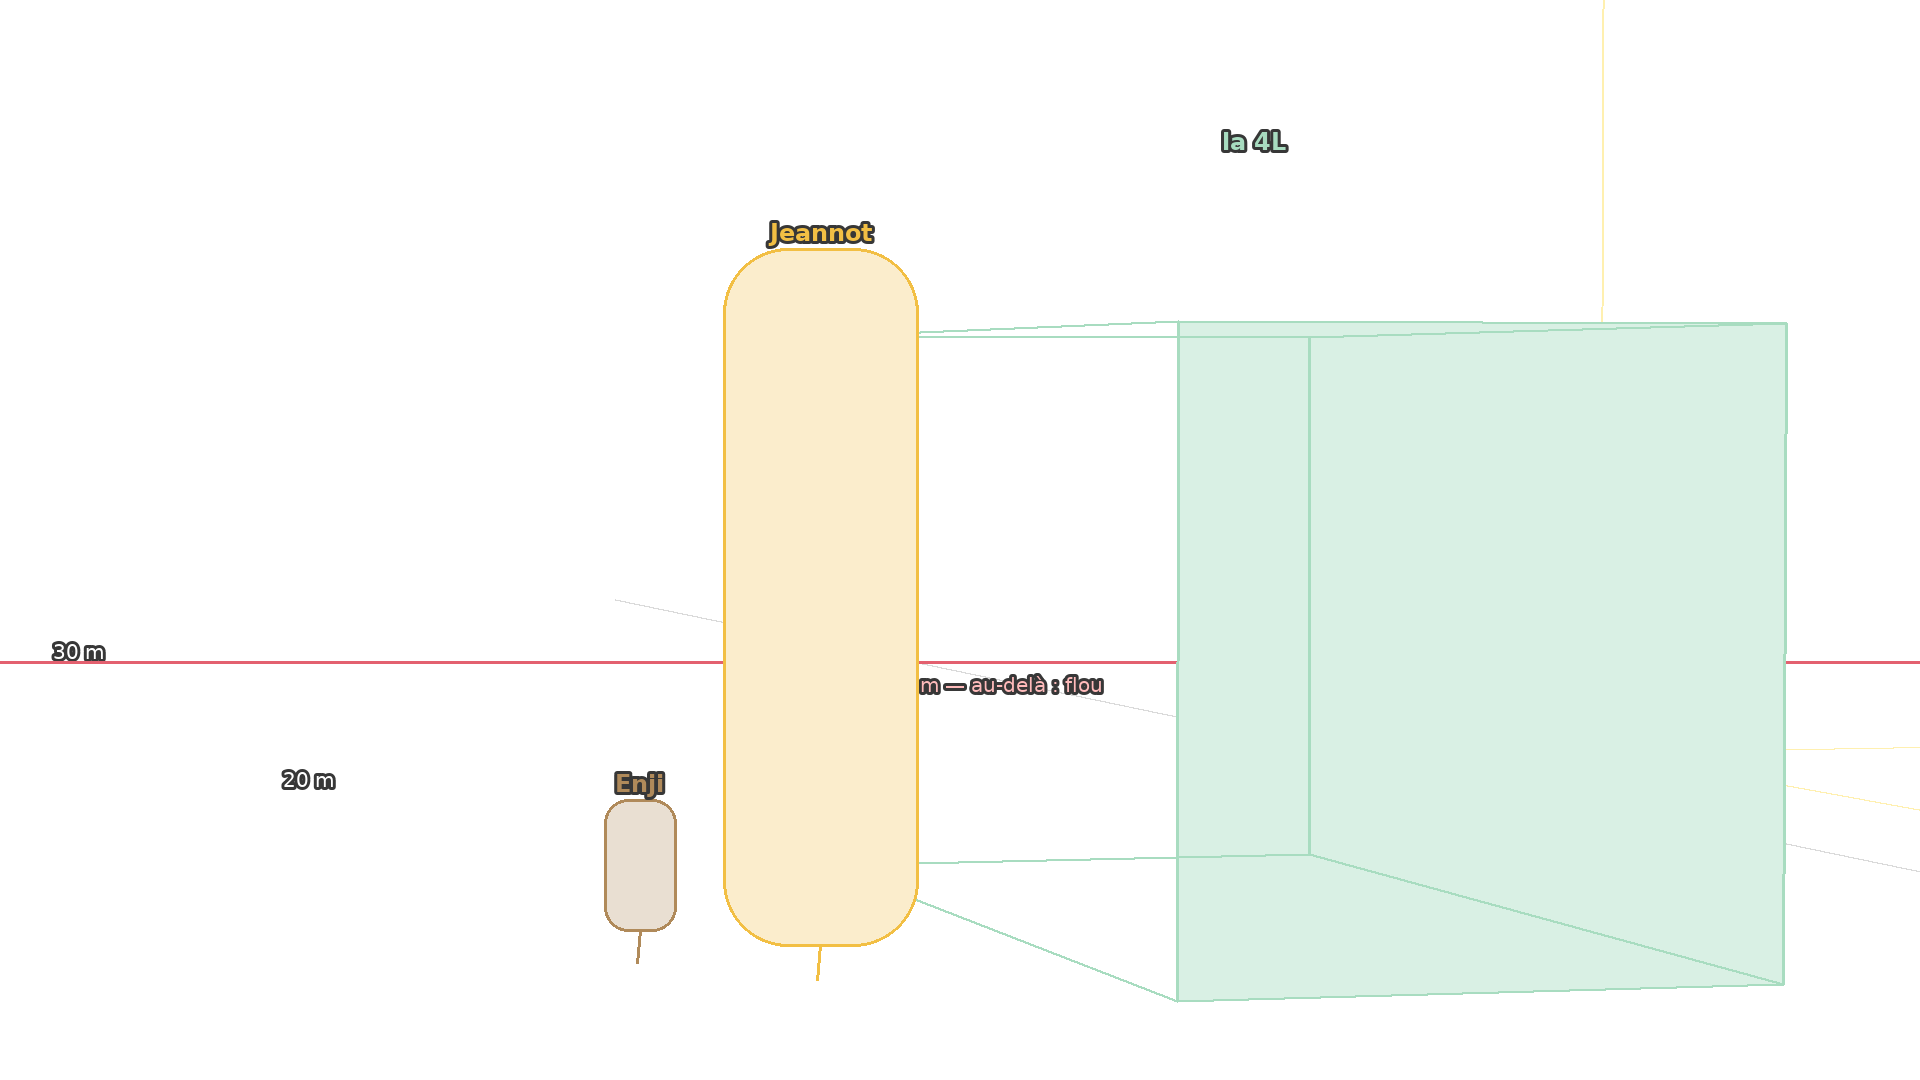
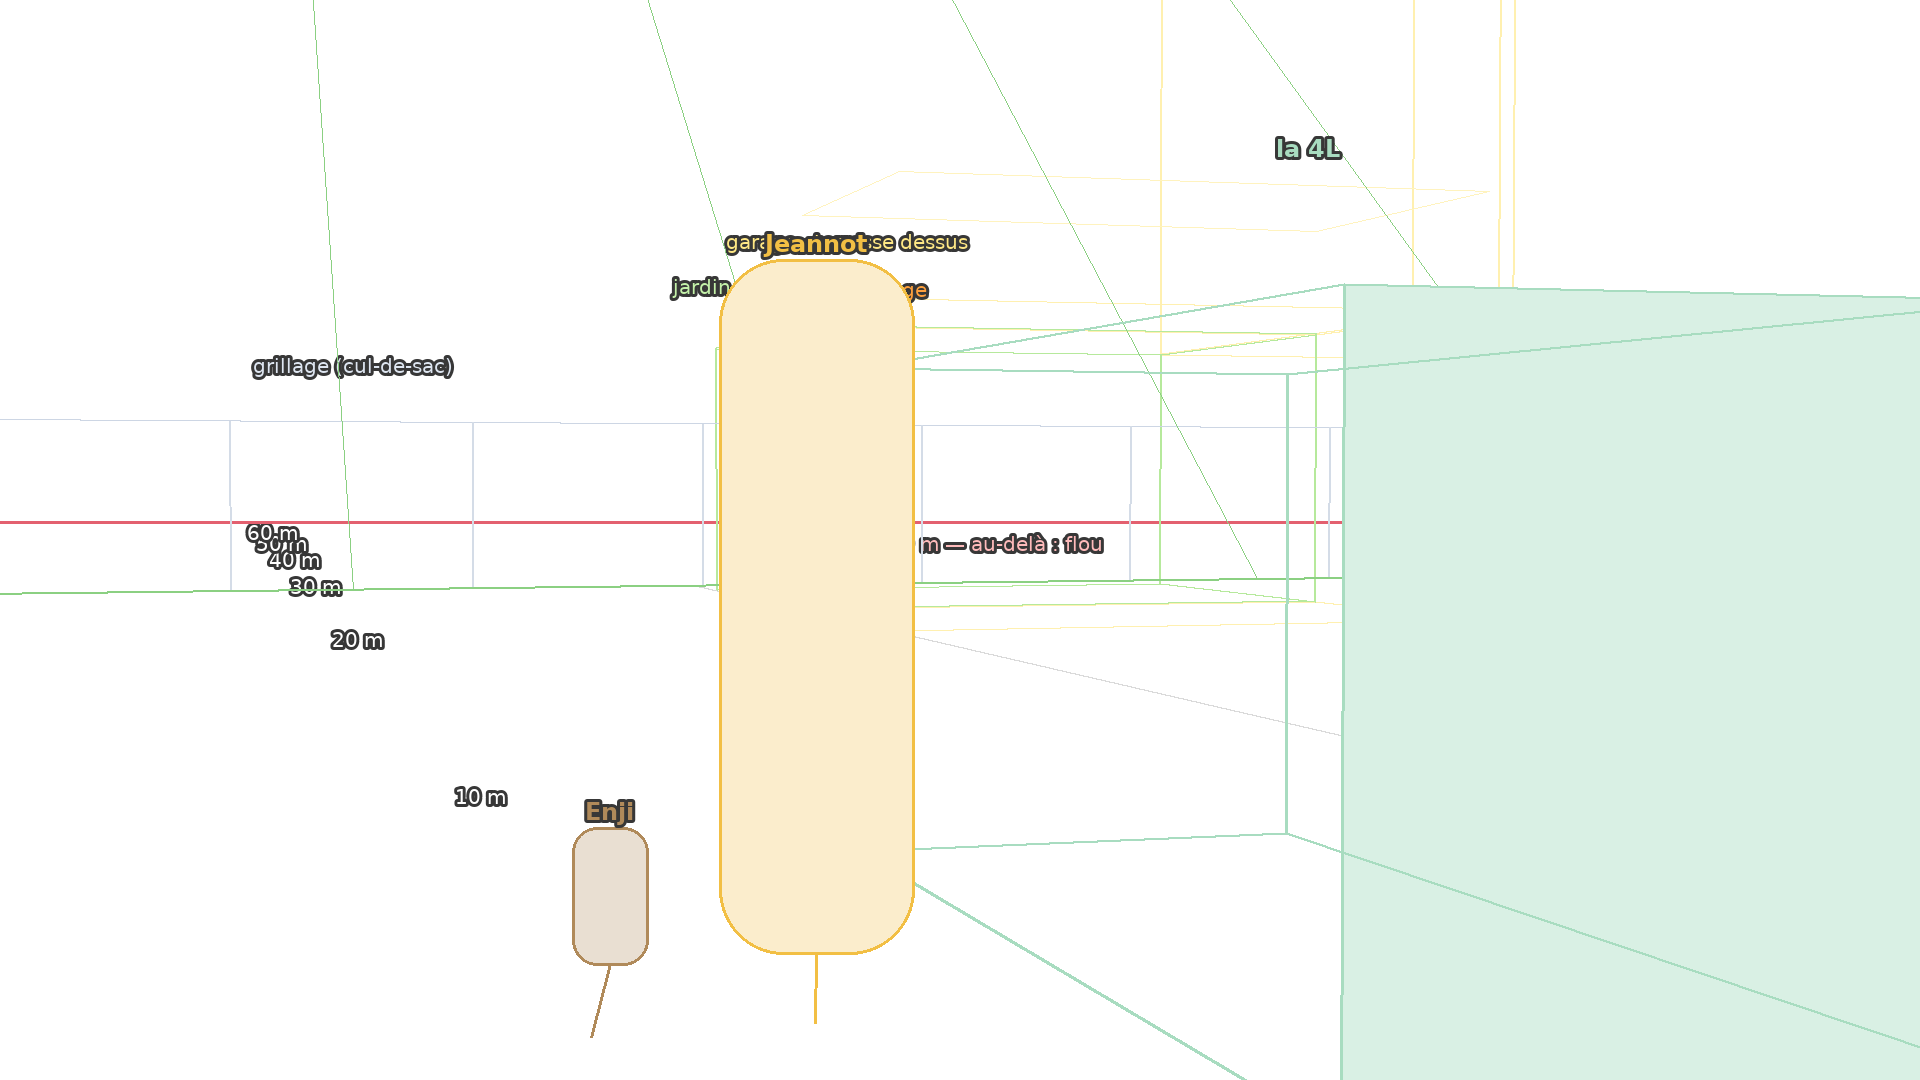
Carte interactive : placement P02 (rév. 2)

diff --git a/docs/storyboard-a-valider.md b/docs/storyboard-a-valider.md
@@ -91,7 +91,7 @@ et repositionner l'estafette devant la maison. Il faut qu'on puisse avoir une vu
 
 <img src="../assets/storyboards/a-valider/carte/plans/p01.png" width="420" alt="carte P01">
 
-**P01 · v33** — ✅ retenue — tools/p01_v33.py — la v32 ; les collages de la v16 (capot ouvert, outils au sol) et de la v17 (fond autour de Diego) refaits à l'identique mais sans l'adoucissement de l'ancien contrôle, sans IA · contrôle : tools/controle_retouche.py → p01-v33-controle.jpg · 🟢 conforme à la carte actuelle (rév. 15)  
+**P01 · v33** — ✅ retenue — tools/p01_v33.py — la v32 ; les collages de la v16 (capot ouvert, outils au sol) et de la v17 (fond autour de Diego) refaits à l'identique mais sans l'adoucissement de l'ancien contrôle, sans IA · contrôle : tools/controle_retouche.py → p01-v33-controle.jpg · 🟠 faite d'après la carte rév. 15 — la carte a changé depuis  
 La v32 sans les restes de flou que tu as pointés autour de Diego (zone 1-2-3-4). Ils venaient bien de l'ancien contrôle : à l'époque, son critère « grain » faisait adoucir les collages. Le capot ouvert, le compartiment moteur et les outils au sol (v16), puis tout le fond autour de Diego (clôture, piliers, haie, v17) avaient été collés volontairement flous. La v20 avait rendu nets Diego, sa caisse et l'Estafette, mais pas ces deux collages-là. Je les ai refaits à l'identique, avec les mêmes images d'origine, mais sans flou : rien n'est redessiné, seul le flou disparaît. Tout le reste est exactement la v32, Henri d'ed5 compris. Contrôle CONFORME (couleurs 97 %, netteté ×1,05, raccord 0,0).
 
 <img src="../assets/storyboards/a-valider/p01/p01-v33-net.png" width="640" alt="P01 v33">
@@ -159,7 +159,7 @@ Il y a comme un portail avec 2 pilier qui chevauche l'escalier d'Henri en dessou
 
 > Glissement vers la maison de Jeannot et sa 4L vert menthe, rouillée mais intacte. Jeannot respire, décale son poids et tient sa cigarette ; Enji traverse le cadre pour son gag.
 
-🗺 Carte du plan (rév. 1, 2026-10-14 16:23) :
+🗺 Carte du plan (rév. 2, 2026-10-14 16:39) :
 
 <img src="../assets/storyboards/a-valider/carte/plans/p02.png" width="420" alt="carte P02">
 
